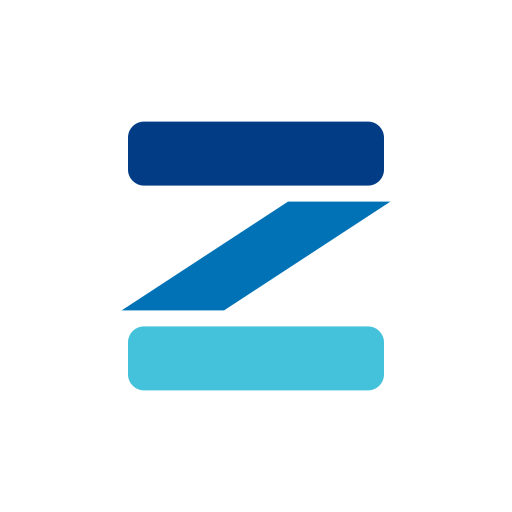
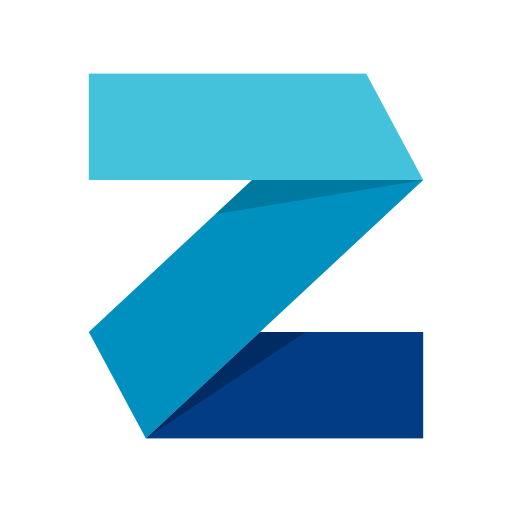
feat(brand): replace the bar Z with the folded-ribbon Z and a brand kit
The owner chose a Z folded from one strip in three sea tones (sea-300,
sea-500, sea-700, one step lighter on the dark theme). ZMark draws it in
the header, the footer and both share cards; app/icon.svg, favicon.ico
(16, 32, 48 px), the apple and PWA icons are regenerated from it.

Every page now has a wide share card: app/opengraph-image.tsx, named in
SITE_SOCIAL too because a page that sets its own openGraph lost the root
card (measured on /theory), so the Twitter card is summary_large_image.

public/brand/ holds the logo, mark, dark and mono variants as SVG and PNG.

diff --git a/app/opengraph-image.tsx b/app/opengraph-image.tsx
@@ -1,0 +1,35 @@
+import { ImageResponse } from 'next/og'
+import { googleFont } from '@/lib/og/googleFont'
+import { SITE_CARD_ALT, SITE_DESCRIPTION } from '@/lib/site'
+import { ZMark } from '@/components/layout/ZMark'
+
+// The share card of every page without its own; the word page draws one per word.
+export const size = { width: 1200, height: 630 }
+export const contentType = 'image/png'
+export const alt = SITE_CARD_ALT
+
+// Satori reads no CSS variables: the `--sea-*` ramp of app/globals.css, written out.
+const SEA_300 = '#45c2db'
+const SEA_500 = '#0090bf'
+const SEA_700 = '#023c85'
+const TINT_2 = '#e4f4f8'
+
+export default async function Image() {
+  // A failed fetch leaves next/og's own face rather than no image.
+  const fonts = await googleFont('Be Vietnam Pro', [500, 800], 'Zhesen' + SITE_DESCRIPTION).catch(() => [])
+  return new ImageResponse(
+    (
+      <div style={{ display: 'flex', flexDirection: 'column', justifyContent: 'center', width: '100%', height: '100%', padding: '0 96px', background: '#fff', fontFamily: 'Be Vietnam Pro', position: 'relative' }}>
+        <div style={{ position: 'absolute', top: -180, right: -160, width: 560, height: 560, borderRadius: 9999, background: TINT_2 }} />
+        <div style={{ display: 'flex', alignItems: 'center', gap: 36, color: SEA_700, fontSize: 168, fontWeight: 800, letterSpacing: -3.4, lineHeight: 1 }}>
+          <ZMark fills={[SEA_300, SEA_500, SEA_700]} height={148} />
+          Zhesen
+        </div>
+        <div style={{ display: 'flex', marginTop: 48, maxWidth: 940, color: '#000', fontSize: 44, fontWeight: 500, lineHeight: 1.35 }}>
+          {SITE_DESCRIPTION}
+        </div>
+      </div>
+    ),
+    { ...size, ...(fonts.length > 0 ? { fonts } : {}) },
+  )
+}

diff --git a/components/layout/SiteHeader.tsx b/components/layout/SiteHeader.tsx
@@ -3,6 +3,7 @@ import Link from 'next/link'
 import { usePathname } from 'next/navigation'
 import { AccountLink } from '@/components/account/AccountLink'
 import { LinkPending } from '@/components/ui/LinkPending'
+import { ZMark } from '@/components/layout/ZMark'
 
 /**
  * `prefetch` is off for every route rendered per request. A Link prefetches as soon as
@@ -58,18 +59,15 @@ export function SiteHeader() {
   )
 }
 
-/** The mark and the name, shared with the footer. The mark is app/icon.svg: a Z made of
- *  three bars, one per language colour (en, zh, es). The top bar takes --zs-ink so it
- *  stays visible on the dark theme. Owner's choice, 2026-10-14. */
+/** The mark and the name, shared with the footer, in the proportions of public/brand/zhesen-logo.svg:
+ *  the mark 1.2 cap heights tall. --zs-logo-* step one shade lighter on the dark theme. */
 export function BrandMark() {
   return (
-    <span className="flex items-center gap-2 text-[1.3125rem] font-extrabold tracking-[-0.02em] text-(--zs-ink)">
-      <svg aria-hidden="true" viewBox="10 10 44 44" className="size-6 flex-none">
-        <rect x="12" y="11" width="40" height="10" rx="2.5" className="fill-(--zs-ink)" />
-        <path d="M37 23.5 H53 L27 40.5 H11 Z" className="fill-sea-600" />
-        <rect x="12" y="43" width="40" height="10" rx="2.5" className="fill-sea-300" />
-      </svg>
+    <span className="flex items-center gap-1.5 text-[1.3125rem] font-extrabold tracking-[-0.02em] text-(--zs-ink)">
+      <ZMark fills={LOGO_FILLS} height={19} className="flex-none" />
       Zhesen
     </span>
   )
 }
+
+const LOGO_FILLS = ['var(--zs-logo-1)', 'var(--zs-logo-2)', 'var(--zs-logo-3)'] as const

diff --git a/app/dictionary/[lang]/[id]/opengraph-image.tsx b/app/dictionary/[lang]/[id]/opengraph-image.tsx
@@ -5,6 +5,7 @@ import { clip, headwordPinyin, joinedCase, vietnameseGlosses } from '@/lib/dicti
 import { percentDecode } from '@/lib/http/percentDecode'
 import { getLanguage, isLangCode } from '@/lib/languages'
 import { googleFont, type OgFont } from '@/lib/og/googleFont'
+import { ZMark } from '@/components/layout/ZMark'
 
 export const size = { width: 1200, height: 630 }
 export const contentType = 'image/png'
@@ -29,6 +30,7 @@ export const revalidate = 604800
 // Satori reads no CSS variables: the `--sea-*` ramp of app/globals.css, written out.
 const SEA_50 = '#c3e7ef'
 const SEA_300 = '#45c2db'
+const SEA_500 = '#0090bf'
 const SEA_600 = '#0172b6'
 const SEA_700 = '#023c85'
 const TINT_2 = '#e4f4f8'
@@ -92,12 +94,7 @@ export default async function Image({ params }: { params: Promise<Params> }) {
           {gloss && <div style={{ display: 'flex', marginTop: 28, maxWidth: 1000, color: '#000', fontSize: 42, fontWeight: 500, lineHeight: 1.35 }}>{gloss}</div>}
         </div>
         <div style={{ display: 'flex', alignItems: 'center', gap: 14, color: SEA_700, fontSize: 40, fontWeight: 800, letterSpacing: -0.8 }}>
-          {/* The brand mark of app/icon.svg. */}
-          <svg width="40" height="40" viewBox="10 10 44 44">
-            <rect x="12" y="11" width="40" height="10" rx="2.5" fill={SEA_700} />
-            <path d="M37 23.5 H53 L27 40.5 H11 Z" fill={SEA_600} />
-            <rect x="12" y="43" width="40" height="10" rx="2.5" fill={SEA_300} />
-          </svg>
+          <ZMark fills={[SEA_300, SEA_500, SEA_700]} height={35} />
           {BRAND}
         </div>
       </div>

diff --git a/app/layout.tsx b/app/layout.tsx
@@ -6,7 +6,7 @@ import './globals.css'
 import { SiteHeader } from '@/components/layout/SiteHeader'
 import { SiteFooter } from '@/components/layout/SiteFooter'
 import { AiChatPanel } from '@/components/ai/AiChatPanel'
-import { SITE_SOCIAL, SITE_URL } from '@/lib/site'
+import { SITE_DESCRIPTION, SITE_SOCIAL, SITE_URL } from '@/lib/site'
 import { THEME_BOOT_SCRIPT } from '@/lib/theme'
 import { WORD_LAYOUT_BOOT_SCRIPT } from '@/lib/dictionary/wordLayout'
 import { HOME_BOOT_SCRIPT } from '@/lib/home/homeLayout'
@@ -23,8 +23,6 @@ const beVietnamPro = Be_Vietnam_Pro({
   weight: ['400', '600', '700', '800'],
 })
 
-const DESCRIPTION = 'Tra từ tiếng Anh, Trung, Tây Ban Nha với tiếng Việt rồi lưu vào sổ tay để ôn.'
-
 export const metadata: Metadata = {
   // Without it every relative URL in a metadata field is a build error, and the
   // Open Graph tags would have to repeat the host in each route.
@@ -33,13 +31,13 @@ export const metadata: Metadata = {
   // `template` is what the others are wrapped in, so a page declares only its own
   // name and the suffix stays consistent.
   title: { default: 'Zhesen · Từ điển Trung, Tây Ban Nha, Anh', template: '%s · Zhesen' },
-  description: DESCRIPTION,
+  description: SITE_DESCRIPTION,
   applicationName: 'Zhesen',
   openGraph: {
     ...SITE_SOCIAL.openGraph,
     url: '/',
     title: 'Zhesen · Từ điển Trung, Tây Ban Nha, Anh',
-    description: DESCRIPTION,
+    description: SITE_DESCRIPTION,
   },
   twitter: SITE_SOCIAL.twitter,
 }

diff --git a/lib/site.ts b/lib/site.ts
@@ -16,15 +16,22 @@ export const SITE_URL =
       ? PRODUCTION_ORIGIN
       : 'http://localhost:3000')
 
+export const SITE_DESCRIPTION = 'Tra từ tiếng Anh, Trung, Tây Ban Nha với tiếng Việt rồi lưu vào sổ tay để ôn.'
+export const SITE_CARD_ALT = 'Zhesen: từ điển Trung, Tây Ban Nha, Anh'
+
 /**
  * The site-level Open Graph and Twitter fields. Next merges metadata shallowly, so a page that
  * sets `openGraph` replaces the layout's whole object and loses these unless it spreads them in.
  */
 export const SITE_SOCIAL = {
-  openGraph: { type: 'website', siteName: 'Zhesen', locale: 'vi_VN' },
-  // `summary` for a page with no image of its own. The word page draws one in its
-  // opengraph-image and sets `summary_large_image` (lib/dictionary/entryMetadata.ts).
-  twitter: { card: 'summary' },
+  // Named here as well as in app/opengraph-image.tsx: a page that sets its own `openGraph`
+  // otherwise loses the root card (measured on /theory). A segment's own card file still wins.
+  openGraph: {
+    type: 'website', siteName: 'Zhesen', locale: 'vi_VN',
+    images: [{ url: '/opengraph-image', width: 1200, height: 630, alt: SITE_CARD_ALT }],
+  },
+  // Every page has a wide card: app/opengraph-image.tsx, or the word page's own.
+  twitter: { card: 'summary_large_image' },
 } satisfies Pick<Metadata, 'openGraph' | 'twitter'>
 
 /**

diff --git a/components/layout/ZMark.tsx b/components/layout/ZMark.tsx
@@ -1,0 +1,18 @@
+/** The brand mark of app/icon.svg and public/brand/: a Z folded from one strip, light to deep
+ *  sea blue. Owner's choice, 2026-10-17. Fills are props because next/og reads no CSS variables. */
+export function ZMark({ fills: [top, mid, bot], height, className }: {
+  fills: readonly [string, string, string]
+  height: number
+  className?: string
+}) {
+  return (
+    <svg aria-hidden="true" viewBox="0 0 44 48" width={(height * 44) / 48} height={height} className={className}>
+      <polygon points="0 0 36.5 0 44 14 0 14" fill={top} />
+      <polygon points="21.47 14 44 14 7.5 48 0 34" fill={mid} />
+      {/* Where the strip passes under the top band, then over the bottom one. */}
+      <polygon points="21.47 14 44 14 16.64 18.5" fill="#000" fillOpacity={0.16} />
+      <polygon points="7.5 48 44 48 44 34 22.53 34" fill={bot} />
+      <polygon points="7.5 48 22.53 34 28.53 34" fill="#000" fillOpacity={0.26} />
+    </svg>
+  )
+}

diff --git a/app/globals.css b/app/globals.css
@@ -150,6 +150,10 @@
   --zs-btn: var(--sea-600);
   --zs-btn-ink: #fff;
   --zs-btn-hover: var(--sea-700);
+  /* The three bands of the brand mark (components/layout/ZMark.tsx), top to bottom. */
+  --zs-logo-1: var(--sea-300);
+  --zs-logo-2: var(--sea-500);
+  --zs-logo-3: var(--sea-700);
 
   --tint-1: color-mix(in srgb, var(--sea-50) 22%, #fff);
   --tint-2: color-mix(in srgb, var(--sea-50) 45%, #fff);
@@ -274,6 +278,10 @@ html {
   --zs-btn: #fff;
   --zs-btn-ink: var(--sea-700);
   --zs-btn-hover: var(--sea-100);
+  /* As public/brand/zhesen-mark-dark.svg: --sea-700 vanishes on black. */
+  --zs-logo-1: var(--sea-200);
+  --zs-logo-2: var(--sea-400);
+  --zs-logo-3: var(--sea-600);
 
   --tint-1: #050d20;
   --tint-2: #081733;

diff --git a/app/manifest.ts b/app/manifest.ts
@@ -1,10 +1,11 @@
 import type { MetadataRoute } from 'next'
+import { SITE_DESCRIPTION } from '@/lib/site'
 
 export default function manifest(): MetadataRoute.Manifest {
   return {
     name: 'Zhesen',
     short_name: 'Zhesen',
-    description: 'Tra từ tiếng Anh, Trung, Tây Ban Nha với tiếng Việt rồi lưu vào sổ tay để ôn.',
+    description: SITE_DESCRIPTION,
     start_url: '/',
     display: 'standalone',
     // --zs-bg and --sea-700 (--zs-ink) in app/globals.css.

diff --git a/test/site-metadata.test.ts b/test/site-metadata.test.ts
@@ -9,7 +9,7 @@ describe('pageMetadata', () => {
       type: 'website', siteName: 'Zhesen', locale: 'vi_VN',
       title: 'take · Zhesen', description: 'd', url: '/dictionary/en/take',
     })
-    expect(m.twitter).toEqual({ card: 'summary' })
+    expect(m.twitter).toEqual({ card: 'summary_large_image' })
     expect(m.alternates).toEqual({ canonical: '/dictionary/en/take' })
   })
 
